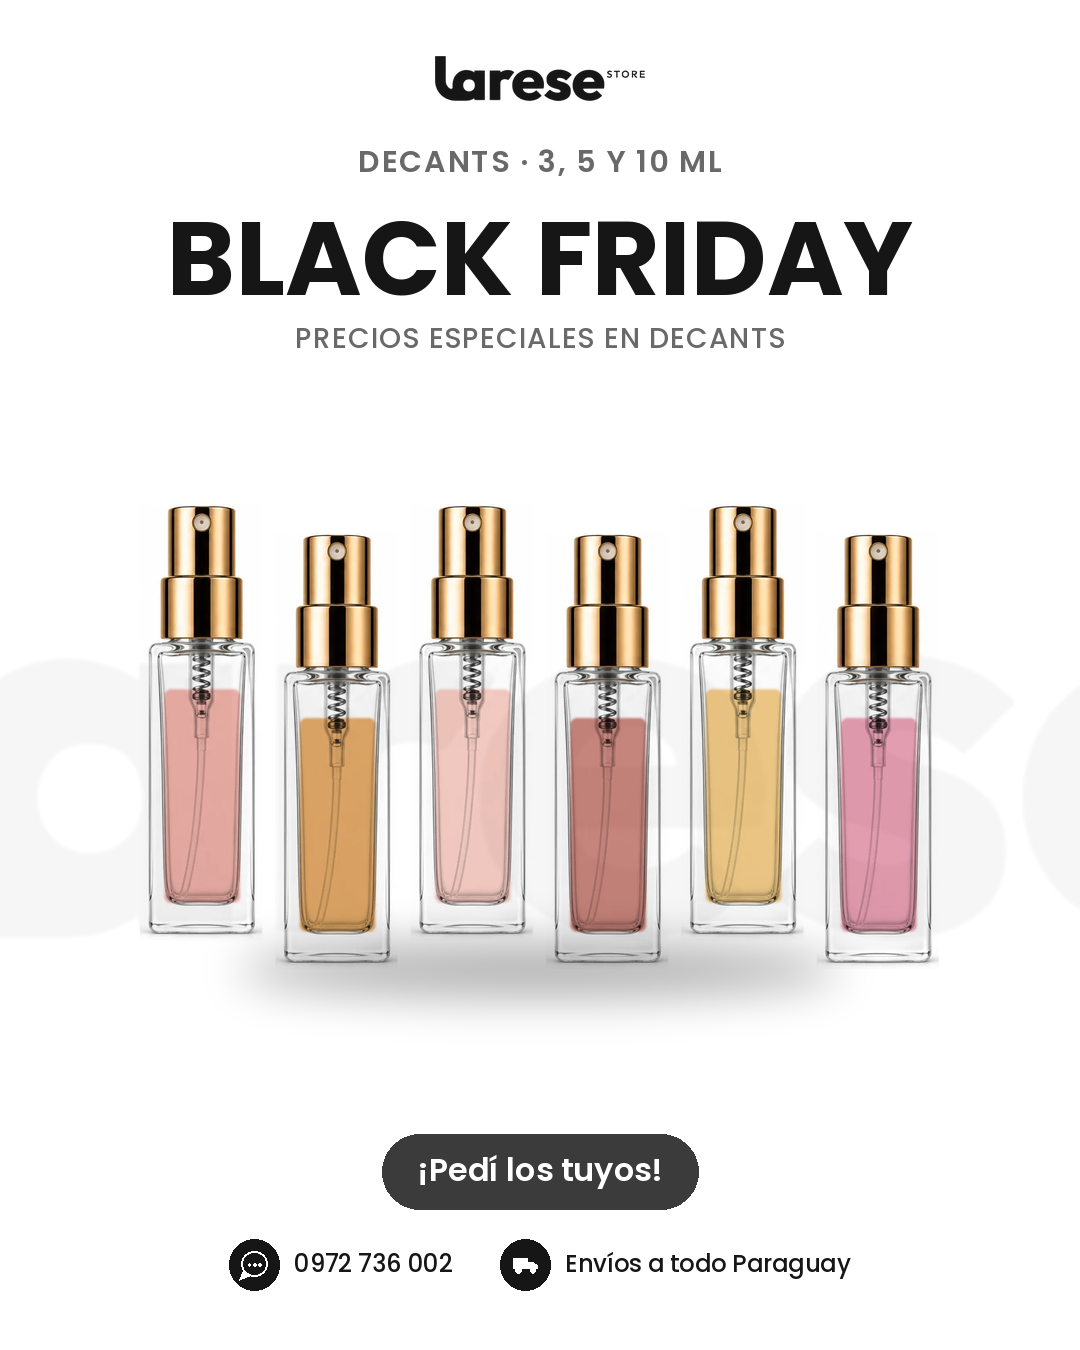
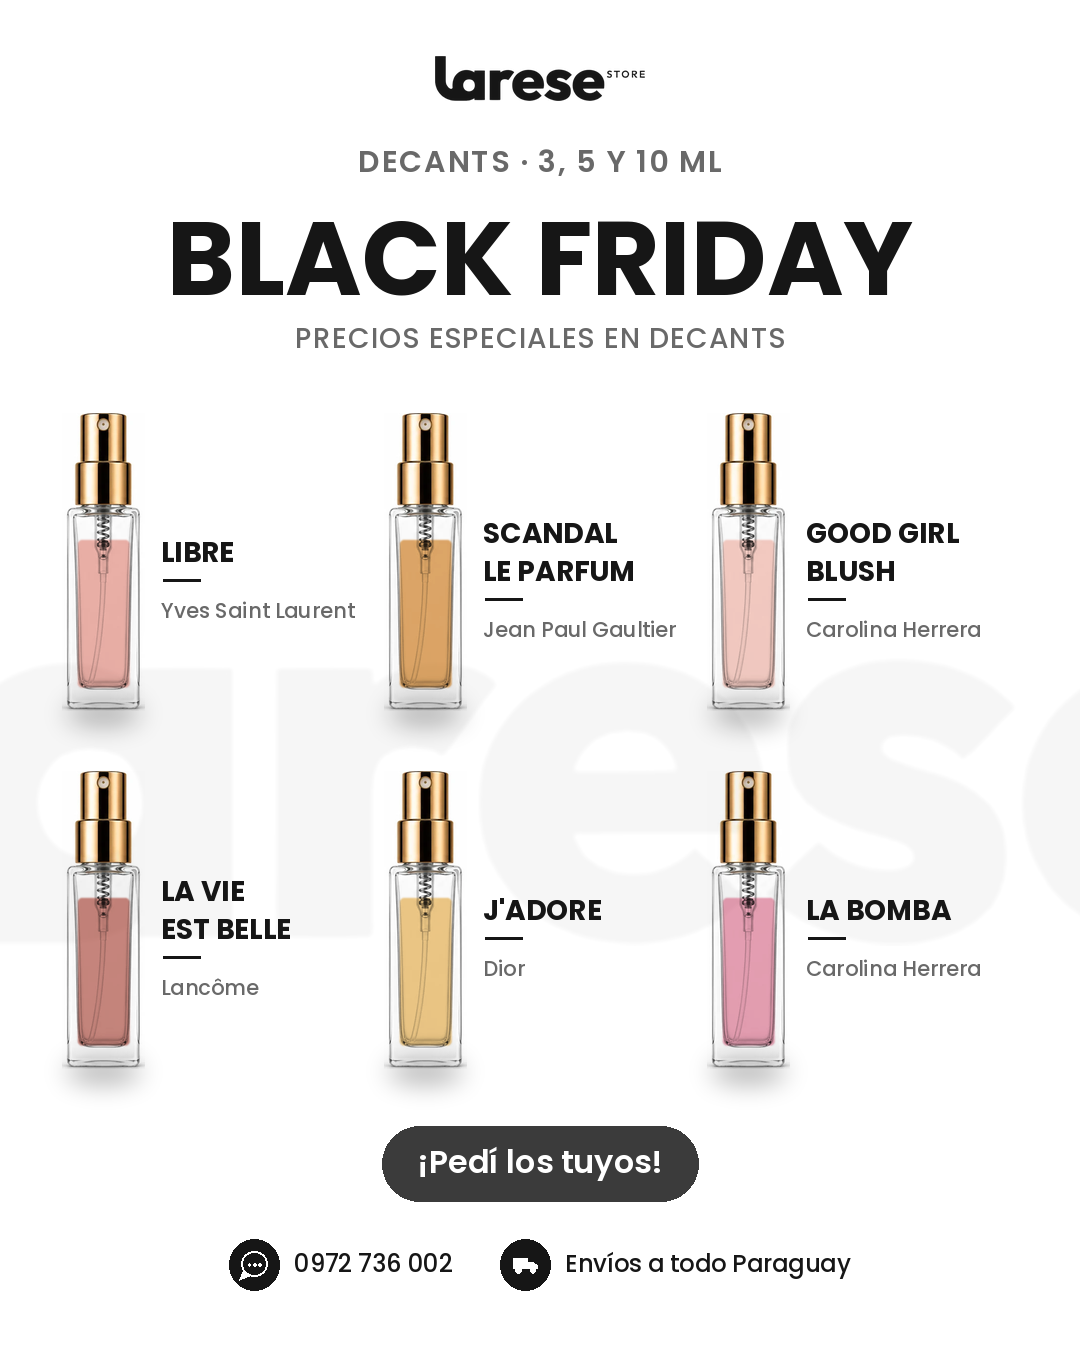
Black Friday decants flyer: name and brand next to each bottle
Claude-Session: https://claude.ai/code/session_01DnzkNLcZedFpQcyR6bg5VG

Changed region(s): [[0.0611, 0.28, 0.8861, 0.9022]]

diff --git a/flyer-black-friday-decants/fuente/armar_flyer.py b/flyer-black-friday-decants/fuente/armar_flyer.py
@@ -1,0 +1,151 @@
+#!/usr/bin/env python3
+"""Flyer Black Friday de decants: 6 frascos con el nombre de cada perfume al lado.
+
+Usa el mismo estilo (fondo blanco, Poppins, logo, botón y pie) que
+herramientas/pieza-fondo-blanco/scripts/crear_pieza.py.
+
+Uso: python3 fuente/armar_flyer.py   (desde flyer-black-friday-decants/)
+"""
+import os
+import sys
+
+from PIL import Image, ImageDraw, ImageFilter
+
+AQUI = os.path.dirname(os.path.abspath(__file__))
+CARPETA = os.path.dirname(AQUI)
+sys.path.insert(0, os.path.join(CARPETA, "..", "herramientas", "pieza-fondo-blanco", "scripts"))
+import crear_pieza as cp  # noqa: E402
+
+# Cada frasco de la foto (de izquierda a derecha) con un perfume de color parecido
+PERFUMES = [
+    ("Libre", "Yves Saint Laurent"),
+    ("Scandal\nLe Parfum", "Jean Paul Gaultier"),
+    ("Good Girl\nBlush", "Carolina Herrera"),
+    ("La Vie\nEst Belle", "Lancôme"),
+    ("J'adore", "Dior"),
+    ("La Bomba", "Carolina Herrera"),
+]
+
+ETIQUETA = "Decants · 3, 5 y 10 ml"
+TITULO = "Black Friday"
+SUBTITULO = "Precios especiales en decants"
+CTA = "¡Pedí los tuyos!"
+
+
+def frascos():
+    foto = Image.open(os.path.join(CARPETA, "decants.png")).convert("RGBA")
+    alfa = foto.getchannel("A").point(lambda v: 255 if v > 20 else 0)
+    cols, dentro = [], False
+    for x in range(foto.width):
+        hay = alfa.crop((x, 0, x + 1, foto.height)).getbbox() is not None
+        if hay and not dentro:
+            ini, dentro = x, True
+        elif not hay and dentro:
+            cols.append((ini, x)); dentro = False
+    if dentro:
+        cols.append((ini, foto.width))
+    out = []
+    for x0, x1 in cols:
+        p = foto.crop((x0, 0, x1, foto.height))
+        out.append(p.crop(p.getchannel("A").point(lambda v: 255 if v > 20 else 0).getbbox()))
+    assert len(out) == 6, len(out)
+    return out
+
+
+def celda(img, frasco, nombre, marca, caja, M):
+    x0, y0, x1, y1 = caja
+    alto = (y1 - y0) * M.get("alto_frasco", 0.94)
+    esc = alto / frasco.height
+    f = frasco.resize((int(frasco.width * esc), int(alto)), Image.LANCZOS)
+    fx = int(x0)
+    fy = int(y0 + (y1 - y0 - f.height) / 2)
+    # sombra suave bajo el frasco
+    sombra = Image.new("L", img.size, 0)
+    sw = f.width * 0.9
+    ImageDraw.Draw(sombra).ellipse((fx + (f.width - sw) / 2, fy + f.height - 10,
+                                    fx + (f.width + sw) / 2, fy + f.height + 14), fill=150)
+    img.alpha_composite(cp.capa_color(sombra.filter(ImageFilter.GaussianBlur(12)), (0, 0, 0), 0.5))
+    img.alpha_composite(f, (fx, fy))
+
+    # texto al lado del frasco
+    d = ImageDraw.Draw(img)
+    tx = fx + f.width + M["sep"]
+    maxw = x1 - tx
+    # el nombre corta donde dice "\n"; la letra se achica hasta que cada renglón entre
+    ln = nombre.upper().split("\n")
+    tam = M["nom"]
+    while tam > M["nom"] * 0.6 and max(d.textlength(l, font=cp.fuente(tam, b"Bold")) for l in ln) > maxw:
+        tam -= 1
+    fn = cp.fuente(tam, b"Bold")
+    fm, lm, _ = cp.ajustar(d, marca, M["mar"], M["mar"] * 0.6, maxw, 1, b"Medium")
+    raya = M["nom"] * 0.9
+    total = cp.alto_linea(fn, 0.95) * len(ln) + raya + cp.alto_linea(fm, 1.05) * len(lm)
+    y = fy + f.height * 0.56 - total / 2
+    for l in ln:
+        d.text((tx, y), l, font=fn, fill=cp.TEXTO)
+        y += cp.alto_linea(fn, 0.95)
+    ry = y + raya * 0.42
+    d.line((tx + 2, ry, tx + M["nom"] * 1.4, ry), fill=cp.TEXTO, width=3)
+    y += raya
+    for l in lm:
+        d.text((tx, y), l, font=fm, fill=cp.GRIS)
+        y += cp.alto_linea(fm, 1.05)
+
+
+MEDIDAS = {
+    "post": dict(tam=(1080, 1350), logo_w=210, logo_y=56, eti=30, tit=104, sub=28, cta=32, pie=24, pie_y=60,
+                 margen=56, nom=28, mar=21, sep=16, gap_y=40),
+    "historia": dict(tam=(1080, 1920), logo_w=250, logo_y=170, eti=34, tit=116, sub=32, cta=40, pie=30, pie_y=190,
+                     margen=44, nom=30, mar=21, sep=14, gap_y=80, alto_frasco=0.86),
+}
+
+
+def armar(formato):
+    M = MEDIDAS[formato]
+    w, h = M["tam"]
+    img = cp.fondo(w, h, cp.FONDO)
+    d = ImageDraw.Draw(img)
+    cx = w / 2
+
+    # arriba: logo, etiqueta, título y subtítulo
+    logo = cp.logo_mascara("texto", M["logo_w"])
+    img.alpha_composite(cp.capa_color(logo, cp.TEXTO), (int(cx - logo.width / 2), M["logo_y"]))
+    y = M["logo_y"] + logo.height + M["eti"] * 1.3
+    fe = cp.fuente(M["eti"], b"SemiBold")
+    cp.txt(d, cx, y, ETIQUETA.upper(), fe, cp.GRIS, esp=M["eti"] * 0.06)
+    y += cp.alto_linea(fe, 1.05)
+    ft, lt, _ = cp.ajustar(d, TITULO.upper(), M["tit"], 60, w - 130, 1, b"Bold")
+    for l in lt:
+        cp.txt(d, cx, y, l, ft, cp.TEXTO)
+        y += cp.alto_linea(ft, 0.86)
+    fs = cp.fuente(M["sub"], b"Medium")
+    y += 6
+    cp.txt(d, cx, y, SUBTITULO.upper(), fs, cp.GRIS, esp=M["sub"] * 0.04)
+    arriba = y + cp.alto_linea(fs, 1.15) + h * 0.03
+
+    # abajo: botón y pie
+    pie_y = h - M["pie_y"] - M["pie"] * 2.1
+    alto_cta = cp.alto_linea(cp.fuente(M["cta"], b"SemiBold")) + M["cta"] * 0.9
+    y_cta = pie_y - M["pie"] * 1.6 - alto_cta
+    abajo = y_cta - h * 0.035
+
+    # medio: grilla de 3 columnas x 2 filas
+    cp.marca_de_agua(img, (arriba + abajo) / 2)
+    ancho_col = (w - 2 * M["margen"]) / 3
+    alto_fila = (abajo - arriba - M["gap_y"]) / 2
+    for i, (frasco, (nombre, marca)) in enumerate(zip(frascos(), PERFUMES)):
+        c, r = i % 3, i // 3
+        x0 = M["margen"] + c * ancho_col
+        y0 = arriba + r * (alto_fila + M["gap_y"])
+        celda(img, frasco, nombre, marca, (x0 + 6, y0, x0 + ancho_col - 10, y0 + alto_fila), M)
+
+    cp.boton(img, cx, y_cta, CTA, M["cta"], cp.ACENTO)
+    cp.pie(img, pie_y, M["pie"], cp.ACENTO)
+    return img.convert("RGB")
+
+
+if __name__ == "__main__":
+    for formato, nombre in (("post", "flyer-post.png"), ("historia", "flyer-historia.png")):
+        ruta = os.path.join(CARPETA, nombre)
+        armar(formato).save(ruta, "PNG")
+        print(ruta)
